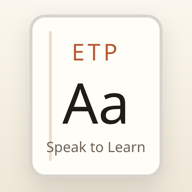
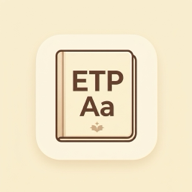
refactor: simplify manifest configuration and update service worker to auto-unregister on activation

diff --git a/public/sw.js b/public/sw.js
@@ -1,85 +1,15 @@
-const CACHE_VERSION = "etp-v3";
-const SHELL_CACHE = `${CACHE_VERSION}-shell`;
-const DATA_CACHE = `${CACHE_VERSION}-data`;
-const IMAGE_CACHE = `${CACHE_VERSION}-images`;
-
-self.addEventListener("install", (event) => {
-  event.waitUntil(
-    caches.open(SHELL_CACHE).then((cache) => cache.addAll(["/", "/manifest.json"])),
-  );
+self.addEventListener("install", () => {
   self.skipWaiting();
 });
 
 self.addEventListener("activate", (event) => {
   event.waitUntil(
-    (async () => {
-      const keys = await caches.keys();
-      await Promise.all(keys.filter((key) => ![SHELL_CACHE, DATA_CACHE, IMAGE_CACHE].includes(key)).map((key) => caches.delete(key)));
-      await self.clients.claim();
-    })(),
+    caches.keys().then((keys) =>
+      Promise.all(
+        keys
+          .filter((key) => key.indexOf("english-through-pictures") === 0 || key.indexOf("etp") === 0)
+          .map((key) => caches.delete(key))
+      )
+    ).then(() => self.registration.unregister()).then(() => self.clients.claim())
   );
 });
-
-self.addEventListener("fetch", (event) => {
-  const { request } = event;
-  if (request.method !== "GET") return;
-
-  const url = new URL(request.url);
-
-  if (request.mode === "navigate") {
-    event.respondWith(networkFirst(request, SHELL_CACHE));
-    return;
-  }
-
-  if (
-    url.pathname === "/manifest.json" ||
-    url.pathname === "/manifest.webmanifest" ||
-    url.pathname.startsWith("/api/pages/")
-  ) {
-    event.respondWith(staleWhileRevalidate(request, DATA_CACHE));
-    return;
-  }
-
-  if (
-    url.pathname.startsWith("/api/books/") ||
-    url.pathname.startsWith("/_next/image") ||
-    url.pathname === "/icon-192.png" ||
-    url.pathname === "/icon-512.png" ||
-    url.pathname === "/apple-touch-icon.png"
-  ) {
-    event.respondWith(cacheFirst(request, IMAGE_CACHE));
-  }
-});
-
-async function networkFirst(request, cacheName) {
-  const cache = await caches.open(cacheName);
-  try {
-    const response = await fetch(request);
-    cache.put(request, response.clone());
-    return response;
-  } catch {
-    return cache.match(request) || caches.match("/");
-  }
-}
-
-async function staleWhileRevalidate(request, cacheName) {
-  const cache = await caches.open(cacheName);
-  const cached = await cache.match(request);
-  const networkPromise = fetch(request)
-    .then((response) => {
-      cache.put(request, response.clone());
-      return response;
-    })
-    .catch(() => cached);
-
-  return cached || networkPromise;
-}
-
-async function cacheFirst(request, cacheName) {
-  const cache = await caches.open(cacheName);
-  const cached = await cache.match(request);
-  if (cached) return cached;
-  const response = await fetch(request);
-  cache.put(request, response.clone());
-  return response;
-}